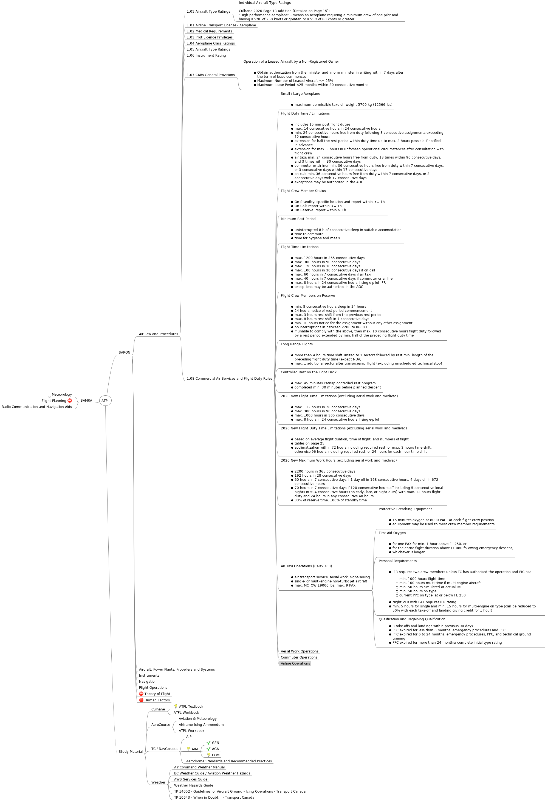
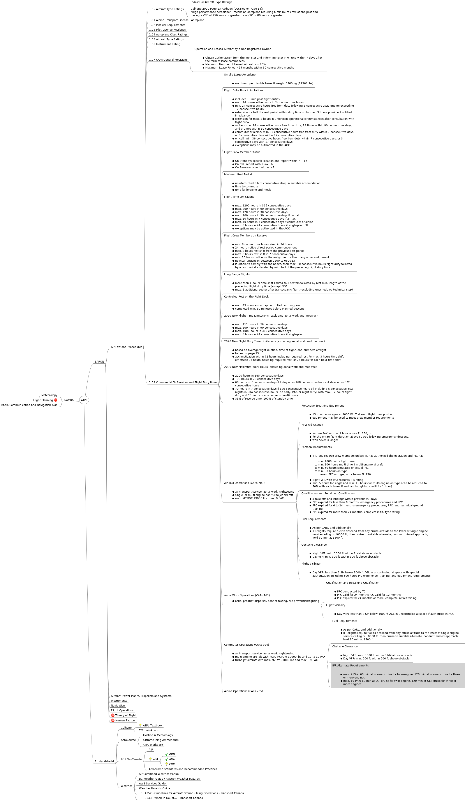
extended ATPL mind map

diff --git a/ATPL/ATPL.mm b/ATPL/ATPL.mm
@@ -390,21 +390,21 @@
   </body>
 </html></richcontent>
 </node>
-<node CREATED="1568996218527" ID="ID_381676043" MODIFIED="1568996800902">
+<node CREATED="1568996218527" ID="ID_381676043" MODIFIED="1569277524644">
 <richcontent TYPE="NODE"><html>
   <head>
     
   </head>
   <body>
     <p>
-      Air Taxi Operations (CARS 703)
+      Air Taxi Operations (CARs 703)
     </p>
     <p>
       
     </p>
     <ul>
       <li>
-        air transport service, aerial work, sight-seeing
+        air transport service, aerial work, sightseeing
       </li>
       <li>
         single- or multi-engine non-turbo jet aircraft
@@ -414,7 +414,8 @@
       </li>
     </ul>
   </body>
-</html></richcontent>
+</html>
+</richcontent>
 <node CREATED="1568999209156" ID="ID_1754657585" MODIFIED="1568999339101">
 <richcontent TYPE="NODE"><html>
   <head>
@@ -507,8 +508,7 @@
       </li>
     </ul>
   </body>
-</html>
-</richcontent>
+</html></richcontent>
 </node>
 <node CREATED="1569272752308" ID="ID_439516675" MODIFIED="1569272954998">
 <richcontent TYPE="NODE"><html>
@@ -534,13 +534,244 @@
       </li>
     </ul>
   </body>
+</html></richcontent>
+</node>
+<node CREATED="1569277821797" ID="ID_854673184" MODIFIED="1569277978329">
+<richcontent TYPE="NODE"><html>
+  <head>
+    
+  </head>
+  <body>
+    <p>
+      Fuel Requirements
+    </p>
+    <p>
+      
+    </p>
+    <ul>
+      <li>
+        As per CARs, and additionally
+      </li>
+      <li>
+        IFR flights require fuel to descend from any cruise altitude to the lower of single-engine service ceiling or 10000 ft, then cruise to suitable alternate, conduct missed approach, hold 30 min at 1500 ft
+      </li>
+    </ul>
+  </body>
+</html>
+</richcontent>
+</node>
+<node CREATED="1569278398982" ID="ID_253945643" MODIFIED="1569278494618">
+<richcontent TYPE="NODE"><html>
+  <head>
+    
+  </head>
+  <body>
+    <p>
+      Obstacle Clearance
+    </p>
+    <p>
+      
+    </p>
+    <ul>
+      <li>
+        Night VFR: min. 1000 ft within 3 NM above obstacle
+      </li>
+      <li>
+        Day VFR: min. 300 ft within 300 ft above obstacle
+      </li>
+    </ul>
+  </body>
+</html>
+</richcontent>
+</node>
+<node CREATED="1569278567909" ID="ID_167821188" MODIFIED="1569278760010">
+<richcontent TYPE="NODE"><html>
+  <head>
+    
+  </head>
+  <body>
+    <p>
+      Flight Visibility
+    </p>
+    <p>
+      
+    </p>
+    <ul>
+      <li>
+        Day VFR: less than 2 SM below 1000 ft AGL in uncontrolled airspace with special authorization including 500 hours PIC experience, training, and equipment requirements
+      </li>
+    </ul>
+  </body>
 </html>
 </richcontent>
 </node>
 </node>
-<node CREATED="1569274082808" ID="ID_96945613" MODIFIED="1569274089779" TEXT="Aerial Work Operations"/>
-<node CREATED="1569274096513" ID="ID_1509217189" MODIFIED="1569274107001" TEXT="Commuter Operations"/>
-<node CREATED="1569274115428" ID="ID_366097208" MODIFIED="1569274126922" TEXT="Airline Operations"/>
+<node CREATED="1569274082808" ID="ID_96945613" MODIFIED="1569277092818">
+<richcontent TYPE="NODE"><html>
+  <head>
+    
+  </head>
+  <body>
+    <p>
+      Aerial Work Operations (CARs 702)
+    </p>
+    <ul>
+      <li>
+        aerial product dispersal, banner towing, fire prevention/fighting
+      </li>
+    </ul>
+  </body>
+</html>
+</richcontent>
+<node CREATED="1569276803155" ID="ID_894625942" MODIFIED="1569276951567">
+<richcontent TYPE="NODE"><html>
+  <head>
+    
+  </head>
+  <body>
+    <p>
+      Qualification and Regaining Qualification
+    </p>
+    <p>
+      
+    </p>
+    <ul>
+      <li>
+        PPC conducted by TC
+      </li>
+      <li>
+        PPC valid for 24 months, CC valid for 12 months
+      </li>
+      <li>
+        PPC expired for 24 months or more: complete initial training
+      </li>
+    </ul>
+  </body>
+</html>
+</richcontent>
+</node>
+<node CREATED="1569278273880" ID="ID_286554040" MODIFIED="1569278525315">
+<richcontent TYPE="NODE"><html>
+  <head>
+    
+  </head>
+  <body>
+    <p>
+      Flight Visibility
+    </p>
+    <p>
+      
+    </p>
+    <ul>
+      <li>
+        Day VFR: less than 2 SM below 1000 ft AGL in uncontrolled airspace if authorized in AOC
+      </li>
+    </ul>
+  </body>
+</html>
+</richcontent>
+</node>
+</node>
+<node CREATED="1569274096513" ID="ID_1509217189" MODIFIED="1569277515004">
+<richcontent TYPE="NODE"><html>
+  <head>
+    
+  </head>
+  <body>
+    <p>
+      Commuter Operations (CARs 704)
+    </p>
+    <p>
+      
+    </p>
+    <ul>
+      <li>
+        air transport service, aerial work, sightseeing
+      </li>
+      <li>
+        multi-engine aircraft with max. MCTOW 19000 lbs and 10 to 19 PAX
+      </li>
+      <li>
+        turbo-jet aircraft with max. MZFW 50000 lbs and max. 19 PAX
+      </li>
+    </ul>
+  </body>
+</html>
+</richcontent>
+<node CREATED="1569277998461" ID="ID_1773039314" MODIFIED="1569278065849">
+<richcontent TYPE="NODE"><html>
+  <head>
+    
+  </head>
+  <body>
+    <p>
+      Fuel Requirements
+    </p>
+    <p>
+      
+    </p>
+    <ul>
+      <li>
+        As per CARs, and additionally
+      </li>
+      <li>
+        IFR flights require fuel to descend from any cruise altitude to the lower of single-engine service ceiling or 10000 ft, then cruise to suitable alternate, conduct missed approach, hold 30 min at 1500 ft
+      </li>
+    </ul>
+  </body>
+</html>
+</richcontent>
+</node>
+<node CREATED="1569278115246" ID="ID_1636033233" MODIFIED="1569278241970">
+<richcontent TYPE="NODE"><html>
+  <head>
+    
+  </head>
+  <body>
+    <p>
+      Obstacle Clearance
+    </p>
+    <p>
+      
+    </p>
+    <ul>
+      <li>
+        Night VFR: min. 1000 ft within 3 NM above obstacle
+      </li>
+      <li>
+        Day VFR: min. 500 ft within 500 ft above obstacle
+      </li>
+    </ul>
+  </body>
+</html>
+</richcontent>
+</node>
+<node CREATED="1569278887082" ID="ID_1573739209" MODIFIED="1569279070972">
+<richcontent TYPE="NODE"><html>
+  <head>
+    
+  </head>
+  <body>
+    <p>
+      IFR Alternate Requirements
+    </p>
+    <p>
+      
+    </p>
+    <ul>
+      <li>
+        max. 9 PAX: 60 min at normal cruise for twin-engine, 120 min at normal cruise for three or more engines
+      </li>
+      <li>
+        max. 19 PAX: 60 min at OEI cruise for twin engine, 120 min at OEI cruise for three or more engines
+      </li>
+    </ul>
+  </body>
+</html>
+</richcontent>
+</node>
+</node>
+<node CREATED="1569274115428" ID="ID_366097208" MODIFIED="1569276329159" TEXT="Airline Operations (CARs 705)"/>
 </node>
 </node>
 <node CREATED="1568173327294" ID="ID_1056315969" MODIFIED="1568173426446" TEXT="Aircraft, Power Plants, Propellers and Systems"/>
